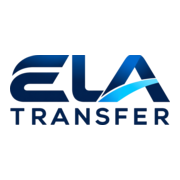
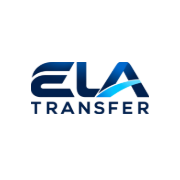
Icônes : site public refait net, espace exploitant en ELA bleu sur noir
L'icône publique était un agrandissement flou du logo : elle est refaite
depuis brand-logo.webp, en 32, 180 et 512 px. L'espace exploitant a
maintenant sa propre icône (ELA bleu sur noir), déclarée partout où il
s'ouvre. Les contrôles « mêmes icônes que le site client » vérifient
désormais que l'espace porte son propre jeu, complet.

Claude-Session: https://claude.ai/code/session_01JT9Ud5HUzLk4mFkCg92oJA

Changed region(s): [[0.0556, 0.3056, 0.9444, 0.6944]]

diff --git a/admin.html b/admin.html
@@ -6,6 +6,8 @@
   <meta name="robots" content="noindex,nofollow">
   <meta http-equiv="refresh" content="0;url=/ela-admin/">
   <link rel="manifest" href="./manifest-exploitant.webmanifest">
+  <link rel="apple-touch-icon" href="./icones/admin-180.png">
+  <link rel="icon" href="./icones/admin-32.png" type="image/png" sizes="32x32">
   <title>ELA Transfer — Espace exploitant</title>
   <style>
     *{box-sizing:border-box}body{margin:0;min-height:100vh;display:grid;place-items:center;padding:24px;background:#f5f9fc;color:#062f55;font-family:Inter,Arial,sans-serif}

diff --git a/exploitant/index.html b/exploitant/index.html
@@ -30,8 +30,8 @@
        l'icône posée, elle ne se revoit plus : « start_url » mène droit au
        tableau de bord. -->
   <link rel="manifest" href="../manifest-exploitant.webmanifest">
-  <link rel="apple-touch-icon" href="../icon-180.png">
-  <link rel="icon" href="../icon-180.png" type="image/png">
+  <link rel="apple-touch-icon" href="../icones/admin-180.png">
+  <link rel="icon" href="../icones/admin-32.png" type="image/png" sizes="32x32">
   <meta name="theme-color" content="#16232B">
   <title>ELA Transfer — Espace exploitant</title>
   <style>

diff --git a/sw.js b/sw.js
@@ -26,7 +26,7 @@ function siteVoisin(url) {
 }
 
 /* v84 : le lien du manifeste ne porte plus d adresse en dur. */
-const CACHE = "elatransfer-v104";
+const CACHE = "elatransfer-v105";
 const SHELL = ["./", "./index.html", "./application.html",
                "./ela-admin/", "./manifest-exploitant.webmanifest",
                /* Le lecteur des demandes collées : sans lui dans le SHELL,

diff --git a/index.html b/index.html
@@ -78,7 +78,7 @@
   m.href = exploitant ? "manifest-exploitant.webmanifest" : "manifest.webmanifest";
 })();
 </script>
-<link rel="icon" href="icon-180.png" type="image/png">
+<link rel="icon" href="icon-32.png" type="image/png" sizes="32x32">
 <link rel="apple-touch-icon" href="icon-180.png">
 
 <!-- DONNÉES STRUCTURÉES. « LimousineService », jamais « TaxiService » : un

diff --git a/CLAUDE.md b/CLAUDE.md
@@ -5972,6 +5972,13 @@ générique, ouverte dans Safari.
   (`sites/easyhotel-client/icon-*.png`). Tailles 32 (onglet d'ordinateur),
   180 (iPhone), 512 (Android). Fabriquées en repeignant la silhouette de
   `brand-logo-white.png`. Aucun logo easyHotel sans leur accord.
+- **Même soir, le site public et l'admin ont suivi.** Public : `icon-*.png`
+  refaits depuis `brand-logo.webp` découpé par la silhouette (l'ancien
+  était un agrandissement flou). Admin : ELA **bleu sur noir**
+  (`icones/admin-*.png`, lettres `--ela-blue`, trait `--ela-cyan`), déclaré
+  par `manifest-exploitant.webmanifest`, `/ela-admin/`, `admin.html` et
+  `/exploitant/`. La règle « les deux manifestes portent les mêmes icônes »
+  est tombée à sa demande : elle vaut maintenant DANS chaque espace.
 - Une icône posée AVANT cette correction garde l'ancien réglage : la
   supprimer et la refaire. Sur iPhone, l'icône a son propre stockage : la
   réception retape son code une fois dans l'application.
